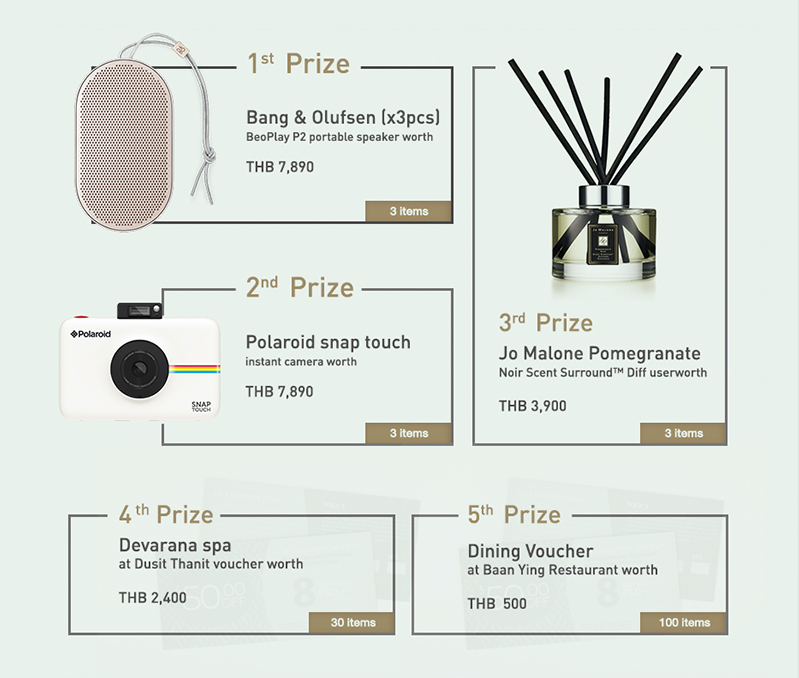
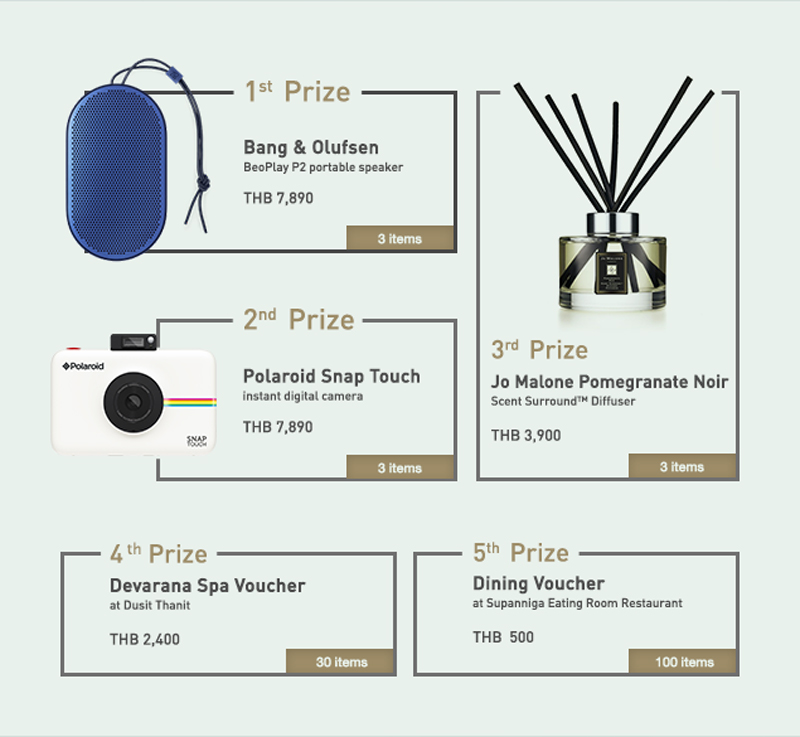
Update prize and text how to play

diff --git a/css/style.css b/css/style.css
@@ -187,7 +187,7 @@ Main components
 }
 
 #about .img-key{
-  box-shadow: 1px 2px 5px #666;
+  /* box-shadow: 1px 2px 5px #666; */
 }
 
 #about .img_title p {
@@ -270,21 +270,11 @@ Main components
 }
 .custom-counter{
     color: #ffffff;
-    font-family: sans-serif;
+    font-family: Helvetica;
     font-size: 18px;
     list-style: decimal;
 }
 
-#howtoplay .text_winner {
-  color: #fff;
-  font-size: 20px;
-  line-height: 34px;
-  font-family: din-medium;
-  margin-top: 30px;
-  font-style: italic;
-  text-transform: uppercase;
-  text-align: center;
-}
 
 #howtoplay .text_campaign ul {
   padding: 0 0 0 20px;
@@ -399,11 +389,25 @@ Main components
   /* min-height: auto; */
   padding: 50px 100px;
 }
+
+
+#live .text_winner {
+  color: #9e8d67;
+  font-size: 24px;
+  line-height: 34px;
+  font-family: din-medium;
+  margin-bottom: 20px;
+  margin-top: 50px;
+  font-style: italic;
+  text-transform: uppercase;
+  text-align: center;
+}
+
 #live > h3 {
   font-size: 3rem;
   text-align: center;
   color: #9e8d67;
-  margin: 50px 0;
+  margin: 0 0 50px;
 }
 
 .username-ui {
@@ -458,11 +462,10 @@ footer .copyright > p {
 
 
 .custom-counter li {
-  font-family: sans-serif;
-  font-size: 20px;
-  line-height: 30px;
+    font-family: Helvetica;
+    font-size: 18px;
+    line-height: 40px;
 }
-
 
 /* .custom-counter {
   margin: 0;

diff --git a/index.html b/index.html
@@ -253,7 +253,6 @@
 							<li>Don’t forget to set your post as PUBLIC!</li>
 							<li>Wait for your chance</li>
 						</ol>
-					<div class="text_winner">Only you can tell what your “Symphony of Life” is.</div>
 				</div>
 			</div>
 		</div>
@@ -261,6 +260,7 @@
 	</section><!-- cd-section -->
 
 	<section id="live" class="cd-section">
+		<div class="text_winner">Only you can tell what your “Symphony of Life” is.</div>
 		<h3>#SYMPHONYOFLIFE / #THELOFTSSILOM</h3>
 		 <!-- Page Content -->
 			<div id="wrapper">	
